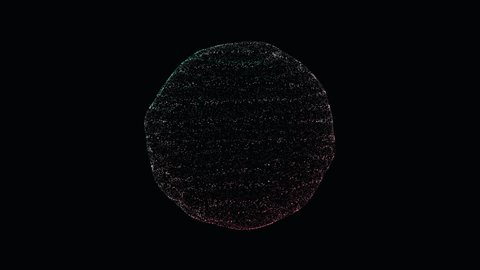
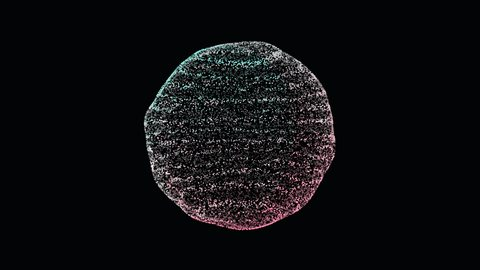
feat(space): 封面粒子按画质档放量并补取图失败回退，预览图重打

Changed region(s): [[0.2812, 0.1481, 0.7188, 0.8593]]

diff --git a/scripts/check-space-particles-browser.js b/scripts/check-space-particles-browser.js
@@ -1,0 +1,220 @@
+// SPDX-License-Identifier: MIT
+'use strict';
+const assert = require('node:assert/strict'), fs = require('node:fs'), path = require('node:path');
+const { chromium } = require(process.env.PLAYWRIGHT_MODULE || 'playwright');
+const sharp = require(process.env.SHARP_MODULE || 'sharp');
+const { uiUrl } = require('./ui-token');
+const root = path.resolve(__dirname, '..'), output = path.join(root, 'output/playwright/space-particles');
+const base = process.env.SPACE_BASE || 'http://127.0.0.1:18815';
+
+async function main() {
+  fs.mkdirSync(output, { recursive: true });
+  const browser = await chromium.launch({ channel: 'chrome', headless: true, args: ['--use-angle=swiftshader', '--enable-unsafe-swiftshader'] });
+  const errors = [], evidence = { scenes: [], layouts: [] };
+  try {
+    const page = await browser.newPage({ viewport: { width: 1440, height: 900 } });
+    page.on('pageerror', error => errors.push(error.message));
+    page.on('console', message => { if (message.type() === 'error') errors.push(message.text()); });
+    await page.setContent('<body style="margin:0;background:#030405"><canvas style="display:block;width:100vw;height:100vh"></canvas>');
+    await page.addScriptTag({ path: path.join(root, 'plugin/ui/vendor/space-stage.js') });
+    await page.evaluate(() => {
+      const canvas = document.querySelector('canvas'), original = canvas.getContext.bind(canvas);
+      canvas.getContext = (type, ...args) => { const result = original(type, ...args); if (/webgl/.test(type)) window.gl = result; return result; };
+      window.invalidations = 0;
+      window.host = SpaceStagePure.create(canvas, { qualityMode: 'high', deviceTier: 2, onInvalidate: () => invalidations++ });
+      window.covers = ['#df374e', '#21bfd2'].map(color => {
+        const c = document.createElement('canvas'); c.width = c.height = 768; const ctx = c.getContext('2d');
+        ctx.fillStyle = color; ctx.fillRect(0, 0, 768, 768);
+        ctx.fillStyle = '#f0ede4'; ctx.fillRect(68, 160, 250, 390);
+        ctx.fillStyle = '#20292b'; ctx.beginPath(); ctx.arc(490, 355, 160, 0, Math.PI * 2); ctx.fill();
+        ctx.fillStyle = '#f0ede4'; ctx.font = 'bold 70px sans-serif'; ctx.fillText('HERTZ', 55, 105);
+        ctx.font = '25px sans-serif'; ctx.fillText('PARTICLE RECORDS', 55, 675);
+        return c.toDataURL();
+      });
+      window.current = 'art:0'; window.resolvers = [];
+      host.setServices({ coverUrl: () => current, resolveCover: key => {
+        if (key.startsWith('late:')) return new Promise(resolve => resolvers.push(resolve));
+        if (key === 'broken') return '';
+        return covers[Number(key.split(':')[1])];
+      } });
+      window.pointer = { active: false, x: 0, y: 0 }; window.now = 0;
+      window.draw = (options = {}) => {
+        now += 16;
+        host.frame({ now, time: 0, sceneTime: 0, dt: .016, dynamicDt: options.playing ? options.dt ?? .016 : 0, playing: false, reduced: false, bands: {}, level: 0, pointer, ...options });
+      };
+      window.pixels = () => {
+        const bytes = new Uint8Array(gl.drawingBufferWidth * gl.drawingBufferHeight * 4);
+        gl.readPixels(0, 0, gl.drawingBufferWidth, gl.drawingBufferHeight, gl.RGBA, gl.UNSIGNED_BYTE, bytes);
+        return bytes;
+      };
+      window.summary = () => {
+        const bytes = pixels(); let red = 0, cyan = 0, lit = 0;
+        for (let i = 0; i < bytes.length; i += 4) {
+          const [r, g, b] = bytes.subarray(i, i + 3);
+          if (r > 80 && r > g * 1.5) red++;
+          if (g > 80 && g > r * 1.5 && b > r * 1.5) cyan++;
+          if (r + g + b > 100) lit++;
+        }
+        return { red, cyan, lit, stats: host.stats() };
+      };
+      window.difference = before => {
+        const after = pixels(), width = gl.drawingBufferWidth, height = gl.drawingBufferHeight;
+        let count = 0, xSum = 0, ySum = 0;
+        for (let i = 0; i < after.length; i += 4) {
+          if (Math.abs(after[i] - before[i]) + Math.abs(after[i + 1] - before[i + 1]) + Math.abs(after[i + 2] - before[i + 2]) > 12) {
+            count++; xSum += (i / 4) % width; ySum += Math.floor(i / 4 / width);
+          }
+        }
+        return { count, center: [xSum / Math.max(1, count), height - ySum / Math.max(1, count)], width, height };
+      };
+    });
+    await page.evaluate(async () => {
+      await host.select('cover-particles'); host.resize(innerWidth, innerHeight);
+      host.setParams({ speed: 0, relief: 0 }); draw();
+    });
+    await page.waitForFunction(() => host.stats().textures > 0 || host.stats().coverTextures > 0);
+    await page.waitForTimeout(150);
+    const cover = await page.evaluate(() => { draw(); window.baseline = pixels(); return summary(); });
+    assert.ok(cover.red > 15000 && cover.lit > 40000, 'cover is rendered as a readable full-color particle grid');
+    assert.equal(cover.stats.points, 192 * 192);
+    await page.screenshot({ path: path.join(output, 'cover-desktop.png') });
+    for (const rotated of [false, true]) {
+      const dent = await page.evaluate(rotated => {
+        if (rotated) {
+          const baseline = SpaceStagePure.catalog().find(d => d.id === 'cover-particles').camera;
+          host.setRig({ ...baseline, theta: .32, phi: .16 });
+        }
+        pointer.active = false; for (let i = 0; i < 80; i++) draw(); window.beforeDent = pixels();
+        pointer = { active: true, x: .22, y: -.16 };
+        for (let i = 0; i < 50; i++) draw();
+        return difference(beforeDent);
+      }, rotated);
+      assert.ok(dent.count > 200, 'hover deforms actual pixels with ' + (rotated ? 'rotated' : 'default') + ' camera');
+      const expected = [dent.width * .61, dent.height * .58];
+      assert.ok(Math.hypot(dent.center[0] - expected[0], dent.center[1] - expected[1]) < 65, 'indentation is centered under the pointer: ' + JSON.stringify(dent));
+      await page.screenshot({ path: path.join(output, rotated ? 'cover-hover-rotated.png' : 'cover-hover.png') });
+      const recovered = await page.evaluate(() => { pointer.active = false; for (let i = 0; i < 100; i++) draw(); return difference(beforeDent); });
+      assert.equal(recovered.count, 0, 'paused pointer departure restores exact original pixels');
+      const reduced = await page.evaluate(() => { pointer.active = true; for (let i = 0; i < 40; i++) draw({ reduced: true }); return difference(beforeDent); });
+      assert.equal(reduced.count, 0, 'reduced motion suppresses pointer deformation');
+      evidence.scenes.push({ id: 'cover-particles', rotated, dent, recovered });
+    }
+    await page.evaluate(() => { pointer.active = false; current = 'art:1'; host.setRig(null); draw(); });
+    await page.waitForTimeout(150);
+    const replacement = await page.evaluate(() => { draw(); window.cyanPixels = pixels(); return summary(); });
+    assert.ok(replacement.cyan > 15000 && replacement.red < cover.red * .05, 'track replacement changes the sampled particle colors');
+    assert.equal(replacement.stats.coverTextures, 1, 'completed transition releases previous artwork');
+    await page.evaluate(() => { current = 'art:0'; draw({ playing: true, dt: 0 }); });
+    await page.waitForTimeout(150);
+    const crossfade = await page.evaluate(() => {
+      draw({ playing: true, dt: .16 }); const mixed = summary(), fromCyan = difference(cyanPixels), mixedPixels = pixels();
+      for (let i = 0; i < 30; i++) draw({ playing: true, dt: .016 });
+      return { mixed, completed: summary(), fromCyan, toRed: difference(mixedPixels) };
+    });
+    assert.equal(crossfade.mixed.stats.coverTextures, 2, 'playing transition keeps at most current and previous covers');
+    assert.ok(crossfade.fromCyan.count > 15000 && crossfade.toRed.count > 15000, 'intermediate cover pixels differ from both endpoints');
+    assert.equal(crossfade.completed.stats.coverTextures, 1, 'finished crossfade releases old texture');
+    assert.ok(crossfade.completed.red > 15000);
+    await page.evaluate(() => { window.beforeFailure = invalidations; current = 'broken'; draw(); });
+    await page.waitForFunction(() => invalidations > beforeFailure);
+    const failure = await page.evaluate(() => { draw(); return summary(); });
+    assert.ok(failure.lit > 40000 && failure.red < cover.red * .3, 'failed artwork invalidates paused rendering and replaces old image with visible fallback');
+    assert.equal(failure.stats.coverTextures, 1, 'failed cover cannot retain the previous image');
+    await page.evaluate(() => { current = 'art:1'; draw(); }); await page.waitForTimeout(150);
+    for (const [width, height] of [[715,897], [390,844], [320,844]]) {
+      await page.setViewportSize({ width, height });
+      const mobile = await page.evaluate(() => { host.resize(innerWidth, innerHeight); draw(); return summary(); });
+      assert.ok(mobile.cyan > 1000, 'readable portrait cover at ' + width);
+      const bounds = await page.evaluate(() => {
+        const bytes = pixels(), w = gl.drawingBufferWidth, h = gl.drawingBufferHeight; let left = w, right = 0;
+        for (let y = 0; y < h; y++) for (let x = 0; x < w; x++) {
+          const i = (y * w + x) * 4;
+          if (bytes[i] + bytes[i + 1] + bytes[i + 2] > 100) { left = Math.min(left, x); right = Math.max(right, x); }
+        }
+        return { left, right, width: w };
+      });
+      assert.ok(bounds.left > 3 && bounds.right < bounds.width - 3, 'complete cover fits portrait width');
+      await page.screenshot({ path: path.join(output, 'cover-' + width + '.png') });
+      evidence.layouts.push({ width, ...mobile, bounds });
+    }
+    await page.evaluate(() => { current = ''; draw(); });
+    const empty = await page.evaluate(() => { draw(); return summary(); });
+    assert.ok(empty.lit > 1000); assert.equal(empty.stats.coverTextures, 0, 'missing artwork uses visible particles without retained textures');
+    for (const id of ['particle-silk', 'gravity-sphere', 'warp-tunnel', 'prism-galaxy']) {
+      await page.setViewportSize({ width: 1440, height: 900 });
+      await page.evaluate(async id => { pointer.active = false; await host.select(id); host.resize(innerWidth, innerHeight); host.setParams({ speed: 0 }); draw(); }, id);
+      const result = await page.evaluate(id => {
+        window.stars = pixels(); pointer = { active: true, x: id === 'warp-tunnel' ? .4 : .15, y: .05 };
+        for (let i = 0; i < 50; i++) draw(); return { diff: difference(stars), pixels: summary() };
+      }, id);
+      assert.ok(result.diff.count > 10, id + ' has real pointer deformation');
+      assert.ok(result.pixels.lit > 500, id + ' has visible, defined particles');
+      await page.screenshot({ path: path.join(output, id + '-desktop.png') });
+      evidence.scenes.push({ id, ...result });
+    }
+    const canceled = await page.evaluate(async () => {
+      await host.select('cover-particles');
+      for (let i = 0; i < 16; i++) { current = 'late:' + i; draw(); await Promise.resolve(); await Promise.resolve(); }
+      const retained = host.stats().coverTextures;
+      await host.select('gravity-sphere'); current = ''; resolvers.forEach(resolve => resolve(covers[0]));
+      await new Promise(resolve => setTimeout(resolve, 50)); draw();
+      return { retained, stats: host.stats() };
+    });
+    assert.equal(canceled.retained, 1, 'rapid cover replacement retains only the live request');
+    assert.equal(canceled.stats.coverTextures, 0, 'late cover completions cannot revive disposed scenes');
+    const disposed = await page.evaluate(() => { host.dispose(); return host.stats(); });
+    assert.equal(disposed.resources, 0); assert.equal(disposed.coverTextures, 0);
+    await page.close();
+
+    const context = await browser.newContext({ viewport: { width: 1440, height: 900 } });
+    let settings;
+    await context.route('**/v1/settings', async route => {
+      if (!settings) { settings = await (await route.fetch()).json(); settings.space3d = { sceneSource: 'cover-particles', cinema: false, qualityMode: 'high', lyrics: false, shelfMode: 'off', playerAutoHide: false }; }
+      if (route.request().method() !== 'GET') Object.assign(settings, route.request().postDataJSON());
+      await route.fulfill({ json: settings });
+    });
+    const app = await context.newPage(); app.on('pageerror', error => errors.push(error.message));
+    await app.goto(uiUrl(base), { waitUntil: 'load' });
+    await app.locator('#space3d-entry').click();
+    await app.waitForFunction(() => Space3D.stats().renderer?.id === 'cover-particles' && Space3D.stats().renderer.state === 'ready');
+    await app.locator('#sp-page-toggle').click();
+    await app.evaluate(() => {
+      const original = Stage.presentation;
+      Stage.presentation = () => ({ ...original(), playing: false, position: 0 });
+      const saved = Space3D.preferences();
+      Space3D.configure({ ...saved, sceneStates: { ...saved.sceneStates, 'cover-particles': SpaceStagePure.normalizeState('cover-particles', { params: { speed: 0, relief: 0 } }) } });
+      window.originalCanvas = document.querySelector('#sp-canvas canvas');
+    });
+    await app.mouse.move(700, 50); await app.waitForTimeout(1200);
+    const canvas = app.locator('#sp-canvas canvas'), originalImage = await canvas.screenshot();
+    const before = await app.evaluate(() => Space3D.stats().renderer.frameCount);
+    await app.mouse.move(860, 440); await app.waitForTimeout(500);
+    assert.ok(await app.evaluate(() => Space3D.stats().renderer.frameCount) > before, 'paused app pointer move wakes existing Stage frame gate');
+    assert.notDeepEqual(await canvas.screenshot(), originalImage, 'real DOM pointer deforms the paused scene');
+    await app.screenshot({ path: path.join(output, 'app-hover.png') });
+    await app.mouse.move(700, 50); await app.waitForTimeout(1300);
+    const paused = await app.evaluate(() => Space3D.stats().renderer.frameCount); await app.waitForTimeout(400);
+    assert.equal(await app.evaluate(() => Space3D.stats().renderer.frameCount), paused, 'paused frame gate sleeps after recovery');
+    await app.locator('#sp-console-toggle').click();
+    const card = app.locator('#sp-fx-grid [data-scene="cover-particles"]');
+    await card.scrollIntoViewIfNeeded();
+    assert.equal(await card.locator('img').evaluate(img => img.complete && img.naturalWidth > 0), true, 'actual new preview loads');
+    assert.equal(await app.locator('#sp-source option[value="cover-particles"]').count(), 1);
+    await app.screenshot({ path: path.join(output, 'app-console.png') });
+    await app.keyboard.press('Escape');
+    for (const [width, height] of [[715,897], [390,844], [320,844]]) {
+      await app.setViewportSize({ width, height }); await app.waitForTimeout(500);
+      const stats = await sharp(await canvas.screenshot()).stats();
+      assert.ok(stats.channels.slice(0,3).some(channel => channel.stdev > 4), 'actual app canvas nonblank at ' + width);
+      assert.equal(await app.evaluate(() => document.documentElement.scrollWidth > innerWidth), false);
+      await app.screenshot({ path: path.join(output, 'app-' + width + '.png') });
+    }
+    await app.locator('#sp-page-toggle').click();
+    assert.equal(await app.evaluate(() => originalCanvas === document.querySelector('#sp-canvas canvas')), true);
+    assert.equal(await app.evaluate(() => Space3D.sourceId()), 'cover-particles');
+    assert.deepEqual(errors, [], 'no shader or runtime errors');
+    fs.writeFileSync(path.join(output, 'evidence.json'), JSON.stringify(evidence, null, 2));
+    console.log('Space particles: artwork grid, localized indentation/rotated camera/recovery, paused gate, reduced motion, replacement/cancellation, four starfields, previews and desktop/mobile passed');
+  } finally { await browser.close(); }
+}
+main().catch(error => { console.error(error); process.exitCode = 1; });

diff --git a/tools/space-stage/src/scenes/resources.js b/tools/space-stage/src/scenes/resources.js
@@ -46,11 +46,15 @@ export function createSpatialResources(THREE, onInvalidate, resolveCover = url =
         if (typeof Image !== 'undefined') {
           const img = new Image(); img.crossOrigin = 'anonymous'; img.decoding = 'async';
           let canceled = false;
+          const fail = () => {
+            if (canceled || disposed || signal?.aborted || !entry.refs) return;
+            entry.failed = true; onInvalidate?.();
+          };
           entry.cancel = () => { canceled = true; img.onload = img.onerror = null; img.src = ''; };
           img.onload = () => {
             if (canceled || disposed || signal?.aborted || !entry.refs) return;
             const el = canvas(768, 768), ctx = el?.getContext('2d');
-            if (!ctx) return;
+            if (!ctx) { fail(); return; }
             try {
               const side = Math.min(img.naturalWidth, img.naturalHeight);
               ctx.drawImage(img, (img.naturalWidth - side) / 2, (img.naturalHeight - side) / 2, side, side, 0, 0, 768, 768);
@@ -58,13 +62,13 @@ export function createSpatialResources(THREE, onInvalidate, resolveCover = url =
               entry.texture.userData.spaceShared = true;
               entry.texture.minFilter = THREE.LinearMipmapLinearFilter;
               onInvalidate?.();
-            } catch { entry.failed = true; }
+            } catch { fail(); }
           };
-          img.onerror = () => { entry.failed = true; };
+          img.onerror = fail;
           Promise.resolve().then(() => resolveCover(key)).then(url => {
             if (canceled || disposed || signal?.aborted || !entry.refs) return;
-            if (url) img.src = url; else entry.failed = true;
-          }).catch(() => { if (!canceled) entry.failed = true; });
+            if (url) img.src = url; else fail();
+          }).catch(fail);
         }
       }
       if (!entry) return null;

diff --git a/tools/space-stage/src/scenes/index.js b/tools/space-stage/src/scenes/index.js
@@ -67,7 +67,8 @@ function definition([id, label, category, factory, aliases = []]) {
     camera: { theta: galaxy || towers ? .3 : 0, phi: id === 'cover-particles' ? 0 : terrain || towers ? .35 : galaxy ? .35 : .06, radius: tunnel ? 5 : lyrics ? 15 : galaxy ? 21 : terrain ? 22 : sphere ? 9.2 : id === 'cover-wall' ? 8 : id === 'cover-particles' ? 9.6 : 13,
       lookAt: terrain ? [0, -1, -2] : tunnel ? [0, 0, -4] : [0, 0, 0], fov: id === 'cover-particles' ? 54 : 58, minRadius: 3, maxRadius: 36, orbit: true, zoom: true },
     capabilities: { interaction: true, threejs: true, depth: true, lyrics, ownsLyrics: lyrics, ...(stanzaRenderer ? { stanzaRenderer } : {}), effects: true, director: true, cues: true, cover: id.includes('cover') },
-    quality: { low: { particles: 4000, drawCalls: 16 }, medium: { particles: 7000, drawCalls: 20 }, high: { particles: 10000, drawCalls: 24 } },
+    quality: id === 'cover-particles' ? { low: { particles: 9216, drawCalls: 16 }, medium: { particles: 20736, drawCalls: 20 }, high: { particles: 36864, drawCalls: 24 } } :
+      { low: { particles: 4000, drawCalls: 16 }, medium: { particles: 7000, drawCalls: 20 }, high: { particles: 10000, drawCalls: 24 } },
     create(ctx) {
       const primary = factory(ctx), effects = createEffects(ctx, ctx.layer === 'lyrics' ? [] : undefined); let params = ctx.params;
       return {

diff --git a/scripts/check-space-artwork-browser.js b/scripts/check-space-artwork-browser.js
@@ -72,7 +72,7 @@ const root = path.resolve(__dirname, '..'), output = path.join(root, 'output/pla
     }
     const canceled = await page.evaluate(async () => {
       current = 'proxy:late'; await host.select('cover-sphere'); frame(); await Promise.resolve(); await Promise.resolve();
-      await host.select('gravity-sphere'); pending(covers[0]); await new Promise(resolve => setTimeout(resolve, 50)); frame();
+      await host.select('gravity-sphere'); current = ''; pending(covers[0]); await new Promise(resolve => setTimeout(resolve, 50)); frame();
       return host.stats();
     });
     assert.equal(canceled.coverTextures, 0, 'late resolver cannot retain a canceled cover');

diff --git a/crates/hertz-studio/src/space_previews.rs b/crates/hertz-studio/src/space_previews.rs
@@ -7,6 +7,7 @@ pub(super) const PREVIEWS: &[(&str, &[u8])] = &[
     ("background-mesh.jpg", include_bytes!("../../../plugin/ui/space-scene-preview/background-mesh.jpg")),
     ("background-spectrogram.jpg", include_bytes!("../../../plugin/ui/space-scene-preview/background-spectrogram.jpg")),
     ("coast.jpg", include_bytes!("../../../plugin/ui/space-scene-preview/coast.jpg")),
+    ("cover-particles.jpg", include_bytes!("../../../plugin/ui/space-scene-preview/cover-particles.jpg")),
     ("cover-sphere.jpg", include_bytes!("../../../plugin/ui/space-scene-preview/cover-sphere.jpg")),
     ("cover-wall.jpg", include_bytes!("../../../plugin/ui/space-scene-preview/cover-wall.jpg")),
     ("gravity-sphere.jpg", include_bytes!("../../../plugin/ui/space-scene-preview/gravity-sphere.jpg")),
